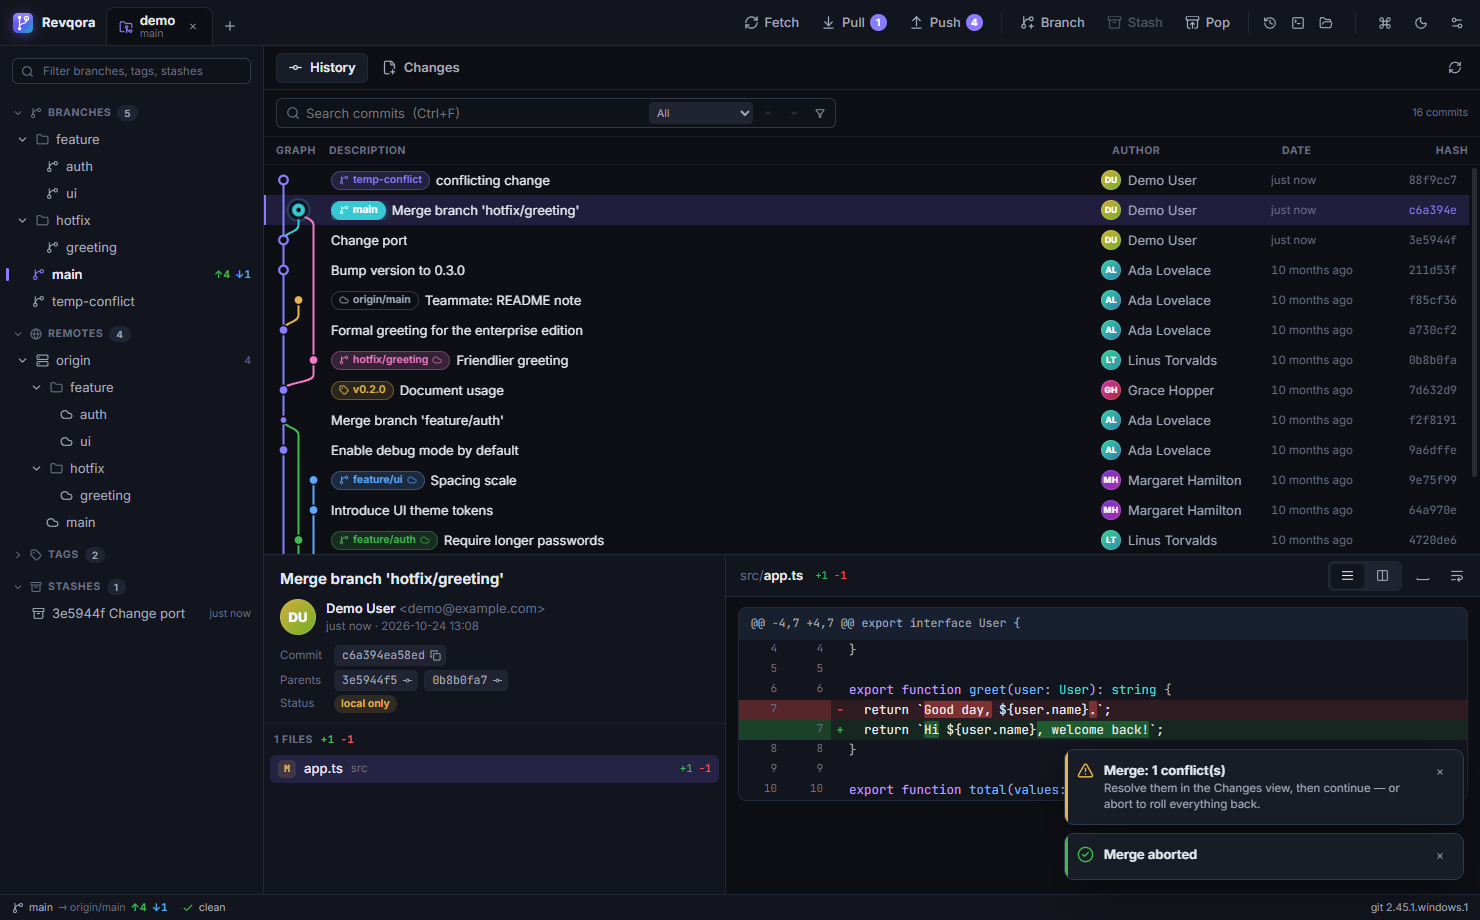
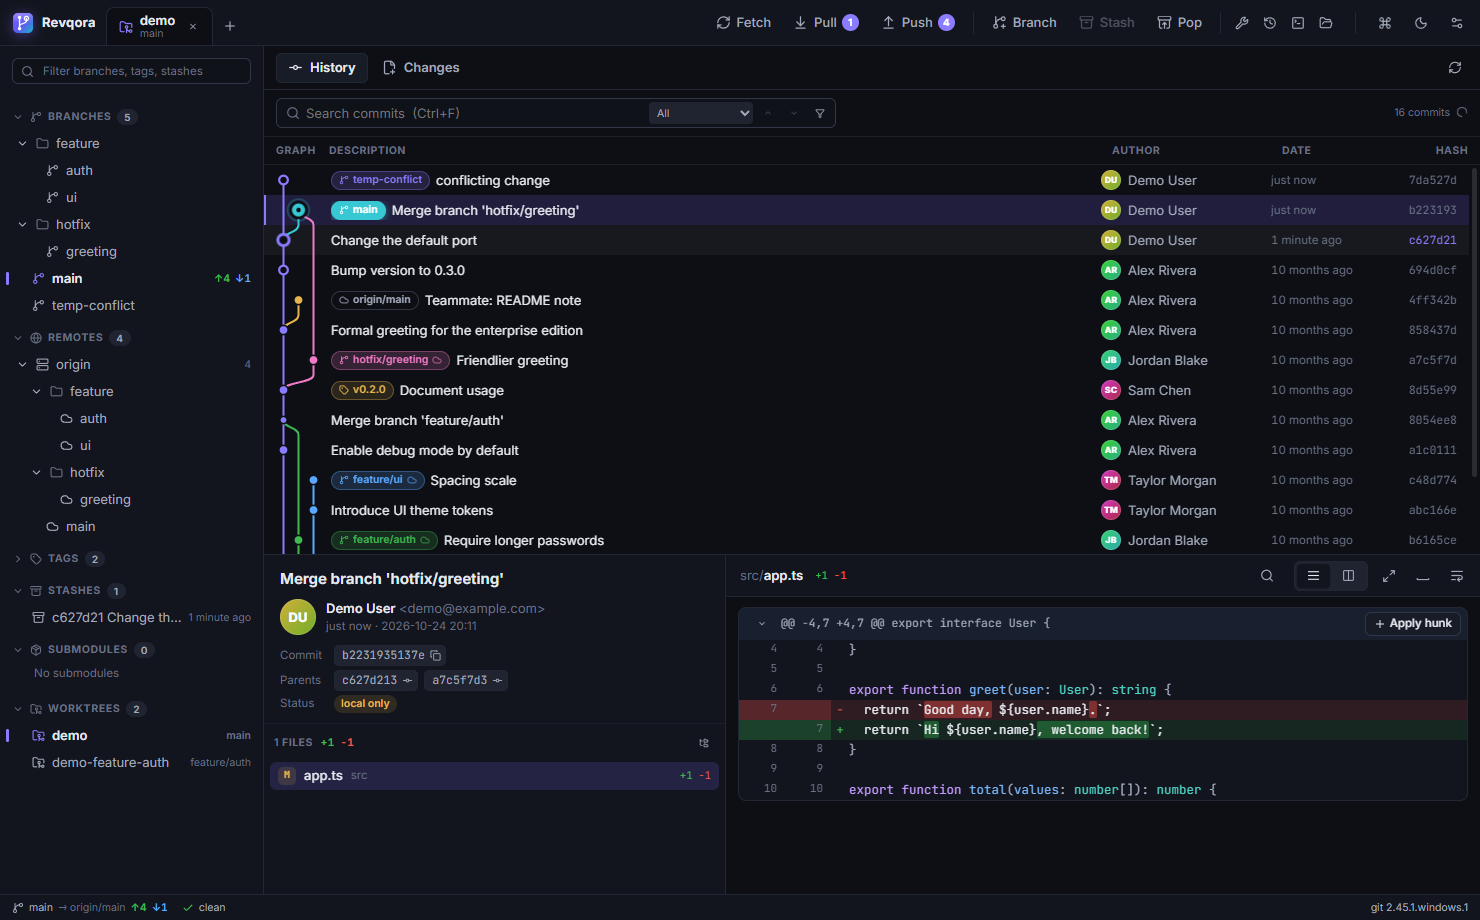
Use fictional names in demo data and re-shoot screenshots (#2)
* Use fictional names in demo data and re-shoot screenshots

* Make the line-staging smoke step robust and keep smoke screenshots on CI failure

---------

diff --git a/src/components/Onboarding.tsx b/src/components/Onboarding.tsx
@@ -107,11 +107,11 @@ export function Onboarding() {
         <>
           <div className="field">
             <label>Name</label>
-            <input className="input" value={name} onChange={(e) => setName(e.target.value)} placeholder="Ada Lovelace" />
+            <input className="input" value={name} onChange={(e) => setName(e.target.value)} placeholder="Alex Rivera" />
           </div>
           <div className="field">
             <label>Email</label>
-            <input className="input" value={email} onChange={(e) => setEmail(e.target.value)} placeholder="ada@example.com" />
+            <input className="input" value={email} onChange={(e) => setEmail(e.target.value)} placeholder="alex@example.com" />
             <div className="help">Saved in your global git config — used for all repositories.</div>
           </div>
         </>

diff --git a/src/lib/lib.test.ts b/src/lib/lib.test.ts
@@ -68,7 +68,7 @@ describe("word diff", () => {
 
 describe("format", () => {
   it("initials and relative time", () => {
-    expect(initials("Ada Lovelace")).toBe("AL");
+    expect(initials("Alex Rivera")).toBe("AR");
     expect(initials("linus")).toBe("LI");
     expect(relativeTime(1000, 1010)).toBe("just now");
     expect(relativeTime(1000, 1000 + 3 * 3600)).toBe("3 hours ago");

diff --git a/scripts/make-big-repo.py b/scripts/make-big-repo.py
@@ -17,7 +17,7 @@ random.seed(7)
 target.mkdir(parents=True, exist_ok=True)
 subprocess.run(["git", "init", "-q", "-b", "main", str(target)], check=True)
 
-authors = ["Ada Lovelace <ada@example.com>", "Grace Hopper <grace@example.com>", "Linus Torvalds <linus@example.com>", "Margaret Hamilton <margaret@example.com>", "Ken Thompson <ken@example.com>"]
+authors = ["Alex Rivera <alex@example.com>", "Sam Chen <sam@example.com>", "Jordan Blake <jordan@example.com>", "Taylor Morgan <taylor@example.com>", "Casey Brooks <casey@example.com>"]
 words = "fix add refactor update remove improve parser graph cache index merge layout theme button docs tests api client server".split()
 
 out = []

diff --git a/README.md b/README.md
@@ -4,9 +4,11 @@ A fast, good-looking desktop Git client. Rust + Tauri 2 backend, React + TypeScr
 
 ![History, dark theme](docs/screenshots/history-dark.png)
 
-| Merge editor | Stage layers |
-| --- | --- |
-| ![Merge editor](docs/screenshots/merge-editor.png) | ![Stage layers](docs/screenshots/stage-layers.png) |
+| History, light theme | Merge editor | Stage layers |
+| --- | --- | --- |
+| ![History, light theme](docs/screenshots/history-light.png) | ![Merge editor](docs/screenshots/merge-editor.png) | ![Stage layers](docs/screenshots/stage-layers.png) |
+
+Screenshots use a generated demo repository (`scripts/make-demo-repo.sh`); all names in it are fictional.
 
 ## Features
 
